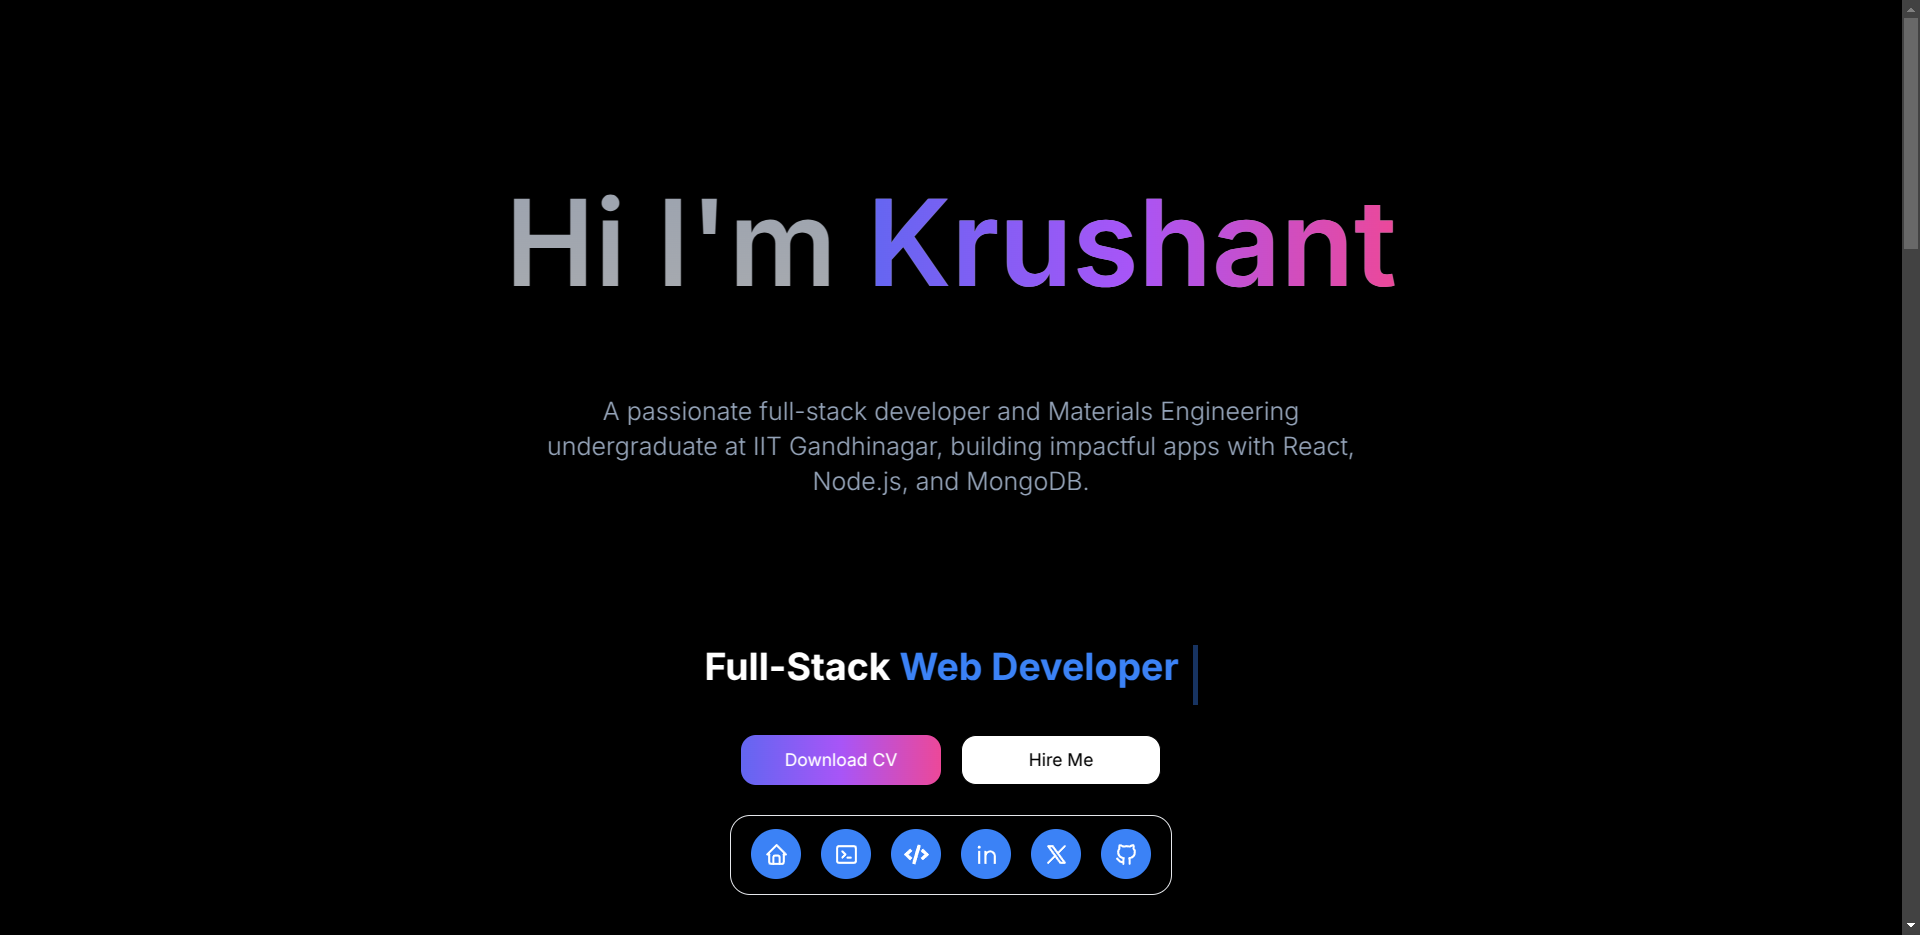
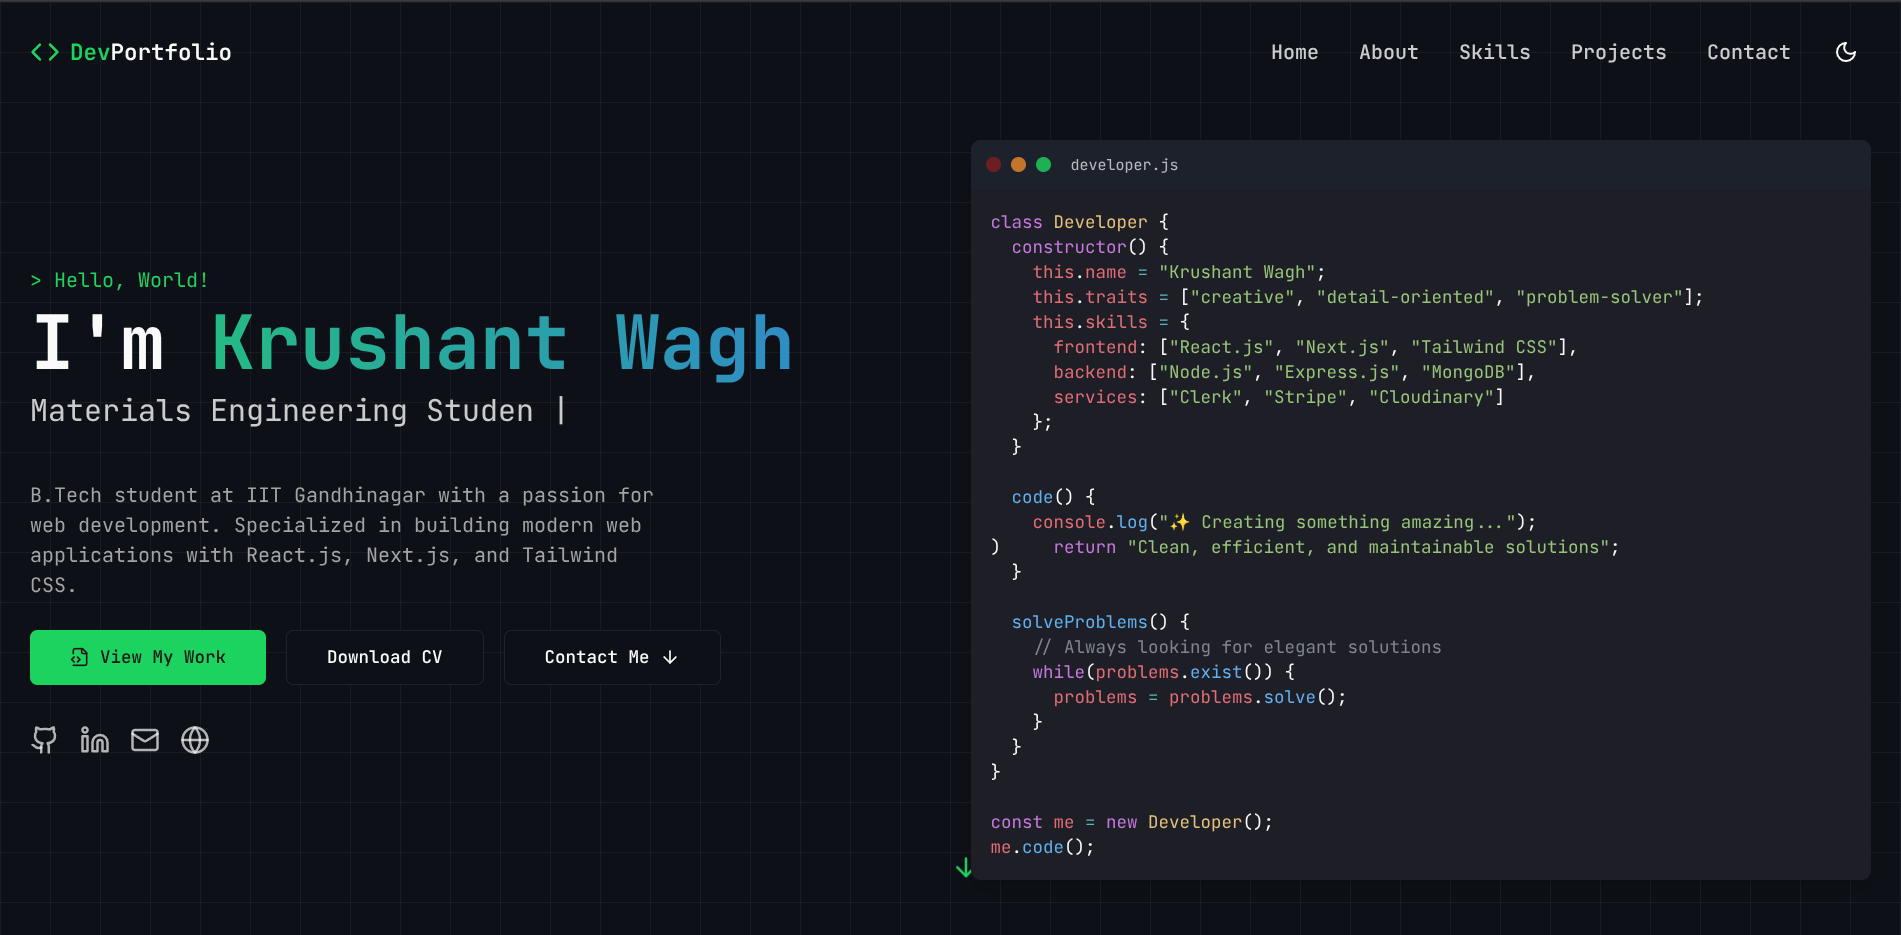
changes in project

diff --git a/components/data.js b/components/data.js
@@ -58,24 +58,24 @@ export const projects = [
   },
   {
     title: "Vibely - Social Media Application",
-    description: "A complete social media platform with CRUD operations and image support.",
+    description: "A complete social media platform with CRUD operations, user authentication, post creation with image support, and interactive UI.",
     stack: ["React", "Express", "Node.js", "MongoDB", "Tailwind CSS"],
     image: "/projects/vibely.png",
     demoUrl: "https://vibely-liart.vercel.app/",
     codeUrl: "https://github.com/Krushan12/Vibely",
   },
   {
-    title: "Web Profile",
-    description: "Sleek, responsive portfolio website to showcase projects and professional skills with dark mode and tech-tagged project organization.",
-    stack: ["Next.js", "Tailwind CSS", "Magic UI"],
+    title: "Developer Portfolio",
+    description: "Modern, responsive portfolio featuring a code-themed UI with syntax highlighting, interactive animations, and a unique developer-focused design.",
+    stack: ["Next.js", "Tailwind CSS", "Framer Motion", "TypeScript", "React", "Lucide Icons"],
     image: "/projects/webprofile.png",
-    demoUrl: "https://profile-mu-silk.vercel.app/",
-    codeUrl: "https://github.com/Krushan12/profile",
+    demoUrl: "https://krushant.vercel.app/",
+    codeUrl: "https://github.com/Krushan12/Krushant",
   },
   {
     title: "Kanban Board Task Management",
-    description: "Responsive task management system with intuitive drag-and-drop functionality and expandable sidebar and modal interfaces.",
-    stack: ["React", "Tailwind CSS"],
+    description: "Responsive task management system with intuitive drag-and-drop functionality, task categorization, and expandable sidebar and modal interfaces.",
+    stack: ["React", "Tailwind CSS", "React DnD"],
     image: "/projects/kanbanboard.png",
     demoUrl: "https://kanban-board-teal-pi.vercel.app/",
     codeUrl: "https://github.com/Krushan12/Kanban-board",

diff --git a/README.md b/README.md
@@ -1,2 +1,92 @@
-# Krushant
-# Krushant
+# Krushant Wagh - Developer Portfolio
+
+[![Deployed on Vercel](https://img.shields.io/badge/Deployed%20on-Vercel-black?style=for-the-badge&logo=vercel)](https://krushant.vercel.app/)
+[![GitHub Repository](https://img.shields.io/badge/GitHub-Repository-181717?style=for-the-badge&logo=github)](https://github.com/Krushan12/Krushant)
+
+## 🚀 Overview
+
+A modern, code-themed portfolio website built with Next.js and Tailwind CSS. This developer-focused portfolio showcases my projects, skills, and experience as a full-stack developer and Materials Engineering student at IIT Gandhinagar with a unique code snippet design.
+
+![Portfolio Preview](/public/projects/webprofile.png)
+
+## ✨ Features
+
+- **Code-Themed Design**: Developer-focused UI with syntax highlighting
+- **Responsive Design**: Optimized for all device sizes
+- **Dark Mode Interface**: Professional coding-inspired dark theme
+- **Interactive Code Snippets**: Dynamic code displays with proper syntax coloring
+- **Animated Transitions**: Smooth animations powered by Framer Motion
+- **Project Showcase**: Highlighted portfolio of web development projects
+- **Skills Visualization**: Visual representation of technical skills using modern badge design
+- **Contact Form**: Easy way for visitors to get in touch
+
+## 🛠 Tech Stack
+
+- **Framework**: [Next.js](https://nextjs.org/)
+- **Language**: [TypeScript](https://www.typescriptlang.org/)
+- **Styling**: [Tailwind CSS](https://tailwindcss.com/)
+- **Animations**: [Framer Motion](https://www.framer.com/motion/)
+- **Form Handling**: React Hook Form with Zod validation
+- **Icons**: Lucide React
+- **Deployment**: [Vercel](https://vercel.com/)
+
+## 🔧 Local Development
+
+### Prerequisites
+
+- Node.js (v18 or higher)
+- npm or yarn
+
+### Setup
+
+1. Clone the repository
+   ```bash
+   git clone https://github.com/Krushan12/Krushant.git
+   cd Krushant
+   ```
+
+2. Install dependencies
+   ```bash
+   npm install
+   # or
+   yarn install
+   ```
+
+3. Start the development server
+   ```bash
+   npm run dev
+   # or
+   yarn dev
+   ```
+
+4. Open [http://localhost:3000](http://localhost:3000) in your browser
+
+## 📂 Project Structure
+
+```
+/
+├── app/              # Next.js app directory
+├── components/       # React components
+│   ├── ui/           # UI components from shadcn/ui
+│   └── data.js       # Portfolio data
+├── public/           # Static assets
+│   └── projects/     # Project images
+└── styles/           # Global styles
+```
+
+## 📱 Featured Projects
+
+- **Developer Portfolio**: Code-themed personal website with syntax highlighting and interactive animations
+- **Phoge**: AI Image SaaS Platform with Stripe payments & Clerk authentication
+- **Vibely**: Social Media Application with CRUD operations and image support
+- **Kanban Board**: Task Management System with drag-and-drop functionality
+
+## 🔗 Connect With Me
+
+- [GitHub](https://github.com/Krushan12)
+- [LinkedIn](https://linkedin.com/in/krushantw)
+- [Email](mailto:krushantw@gmail.com)
+
+## 📄 License
+
+This project is open source and available under the [MIT License](LICENSE).
